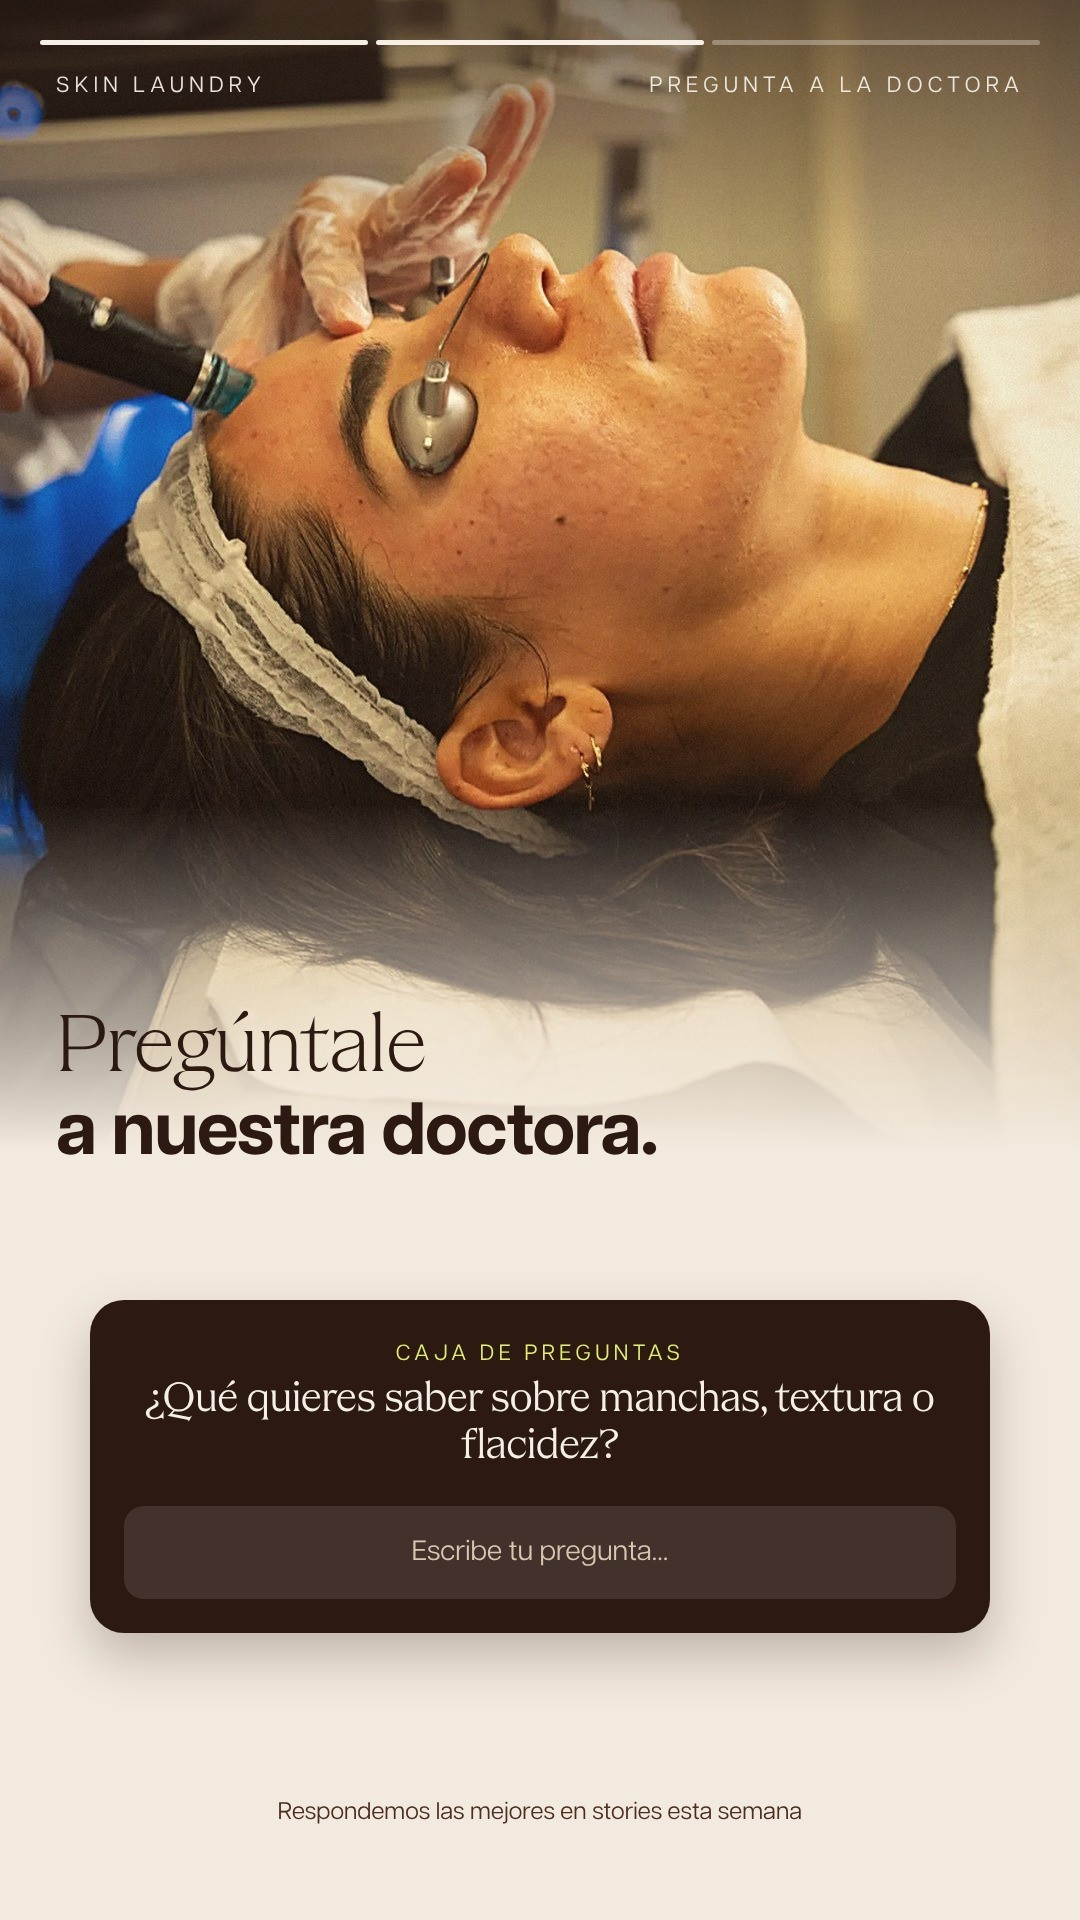
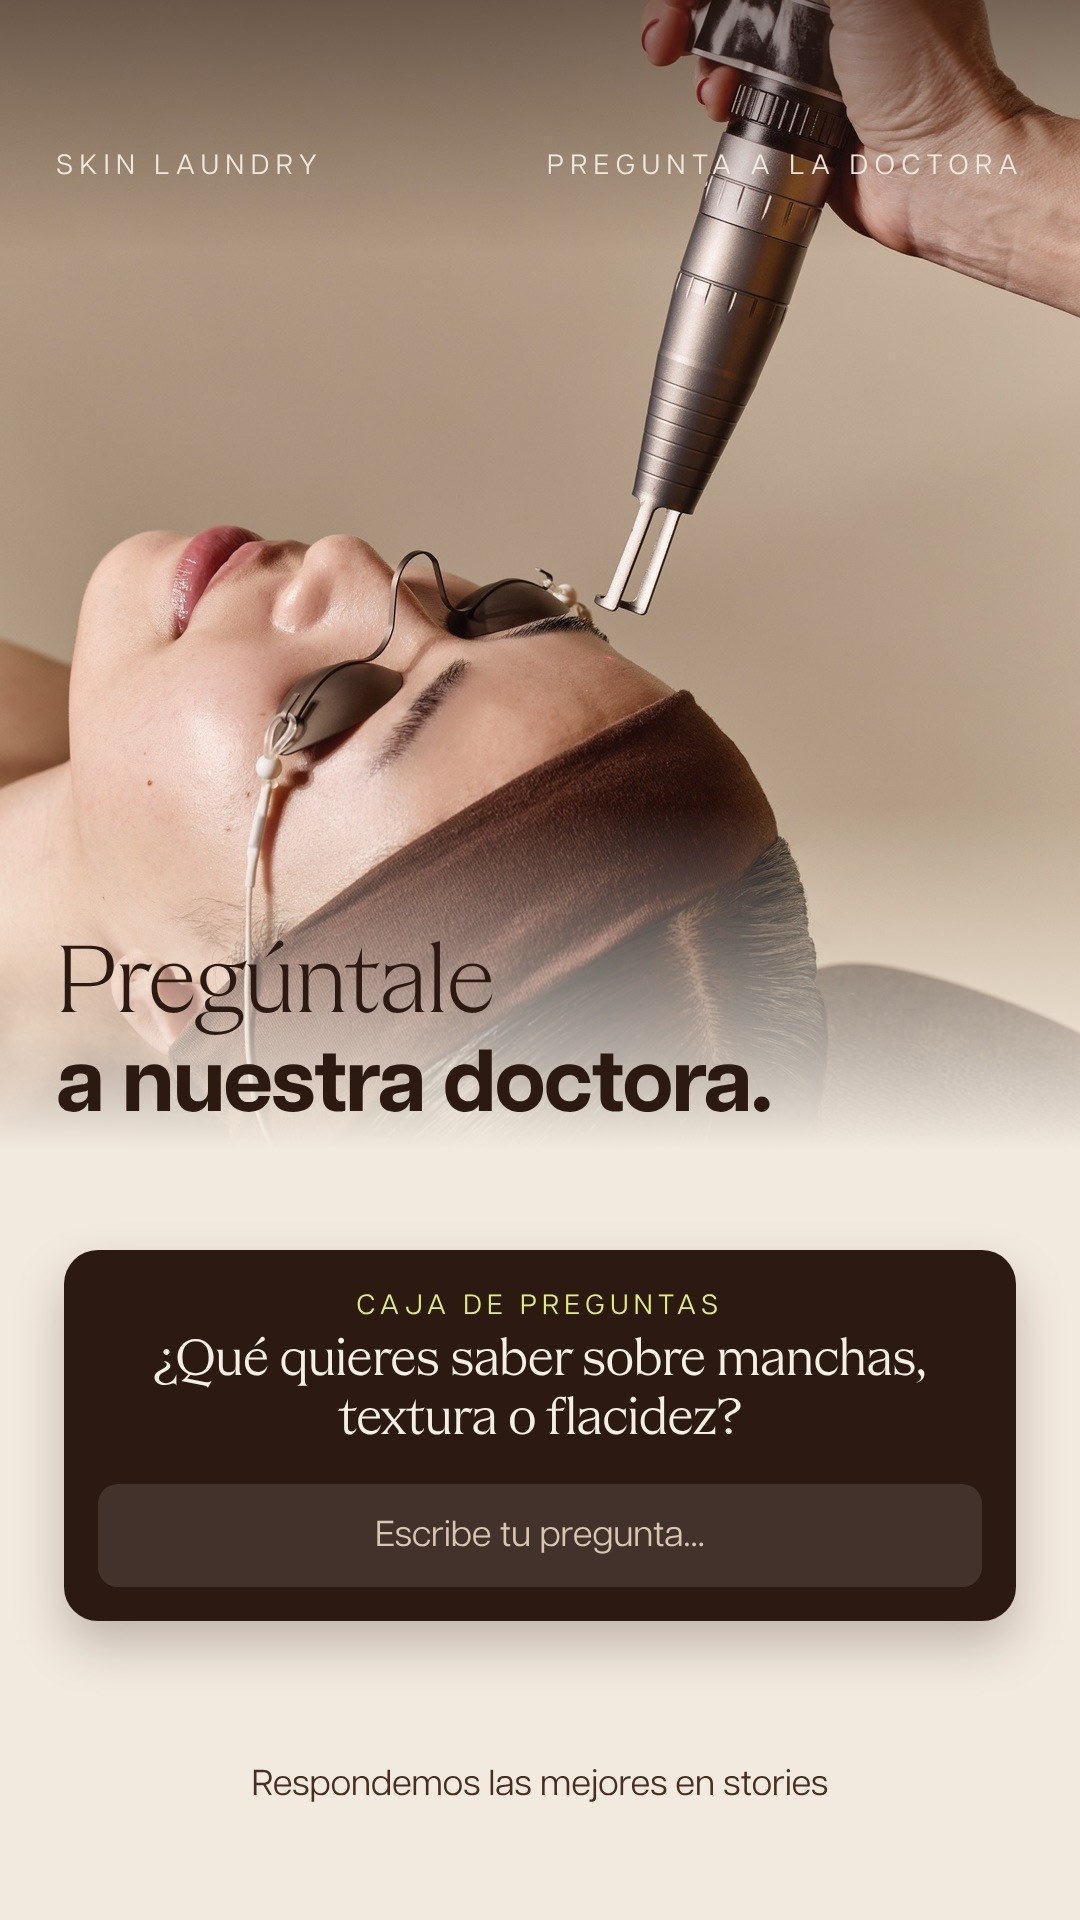
Calendario Skin Laundry nov: stories nuevas del miércoles 11
Encuesta de otoño, caja de preguntas a la doctora y recordatorio del
Laundry Club, con las piezas finales.

Claude-Session: https://claude.ai/code/session_01JZ4qrB4vBJCM1LriYw1bZU

diff --git a/public/pitch/skin-laundry-calendario/noviembre/index.html b/public/pitch/skin-laundry-calendario/noviembre/index.html
@@ -848,8 +848,8 @@ Reserva desde el enlace de la bio.
 /* Pack de 3 stories/semana + reposts de influencers (propuesta) */
 const STORIES = {
   11: { titulo:"Pack semanal · semana 1", hora:"12:00h", estado:"listo",
-        imgs:["/pitch/skin-laundry-calendario/noviembre/img/drive-s11_1.jpg?v=11101627","/pitch/skin-laundry-calendario/noviembre/img/drive-s11_2.jpg?v=11101627","/pitch/skin-laundry-calendario/noviembre/img/drive-s11_3.jpg?v=11101627"],
-        items:["Encuesta: ¿qué te preocupa más este otoño? Manchas / textura / flacidez","Caja de preguntas: pregúntale a nuestra doctora","Recordatorio: The Laundry Club · hazte miembro, link en bio"] },
+        imgs:["/pitch/skin-laundry-calendario/noviembre/img/drive-s11_1.jpg?v=11112356","/pitch/skin-laundry-calendario/noviembre/img/drive-s11_2.jpg?v=11112356","/pitch/skin-laundry-calendario/noviembre/img/drive-s11_3.jpg?v=11112356"],
+        items:["Encuesta: ¿qué te preocupa más este otoño? Manchas / Textura / Flacidez","Caja de preguntas: pregúntale a nuestra doctora sobre manchas, textura o flacidez","Recordatorio Laundry Club: la clave es la constancia · hazte miembro, link en bio"] },
   13: { titulo:"Reposts de influencers", hora:"12:00h",
         items:["Reposts de las creadoras de la semana","Detrás de cámaras en Diagonal 610","Recordatorio: reserva tu valoración"] },
   16: { titulo:"Pack semanal · semana 2", hora:"12:00h",
